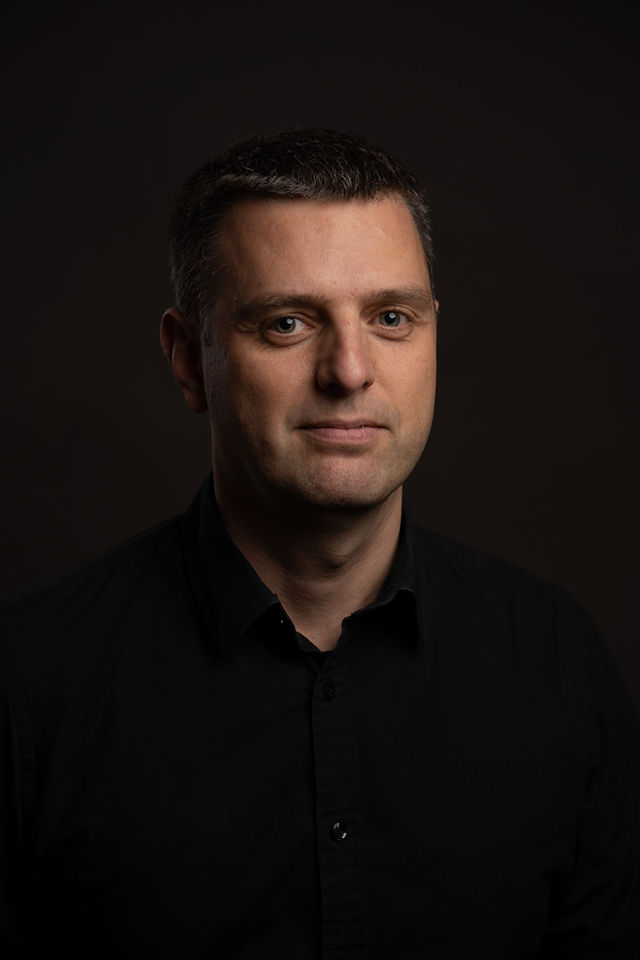
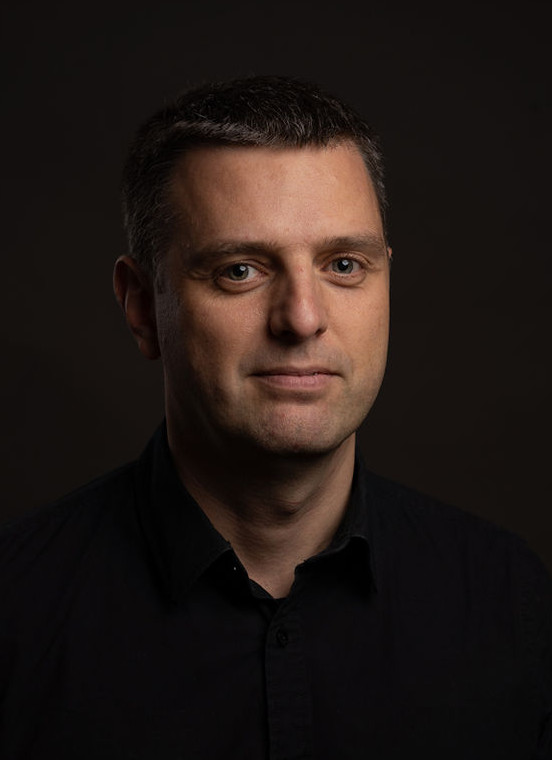
replace RS image

diff --git a/about.html b/about.html
@@ -119,7 +119,7 @@ Dr. Ross King and Dr. Bernhard Haslhofer, world leaders in the field of cryptocu
 
 
 <div class="bio-image">
-    <img class="w-100" src="/assets/img/Rainer_Stuetz.jpg" alt="" srcset="/assets/resized/Rainer_Stuetz-480x720.jpg 480w,/assets/resized/Rainer_Stuetz-320x480.jpg 320w," />
+    <img class="w-100" src="/assets/img/Rainer_Stuetz.jpg" alt="" srcset="/assets/resized/Rainer_Stuetz-480x661.jpg 480w,/assets/resized/Rainer_Stuetz-320x441.jpg 320w," />
 
 </div>
 
